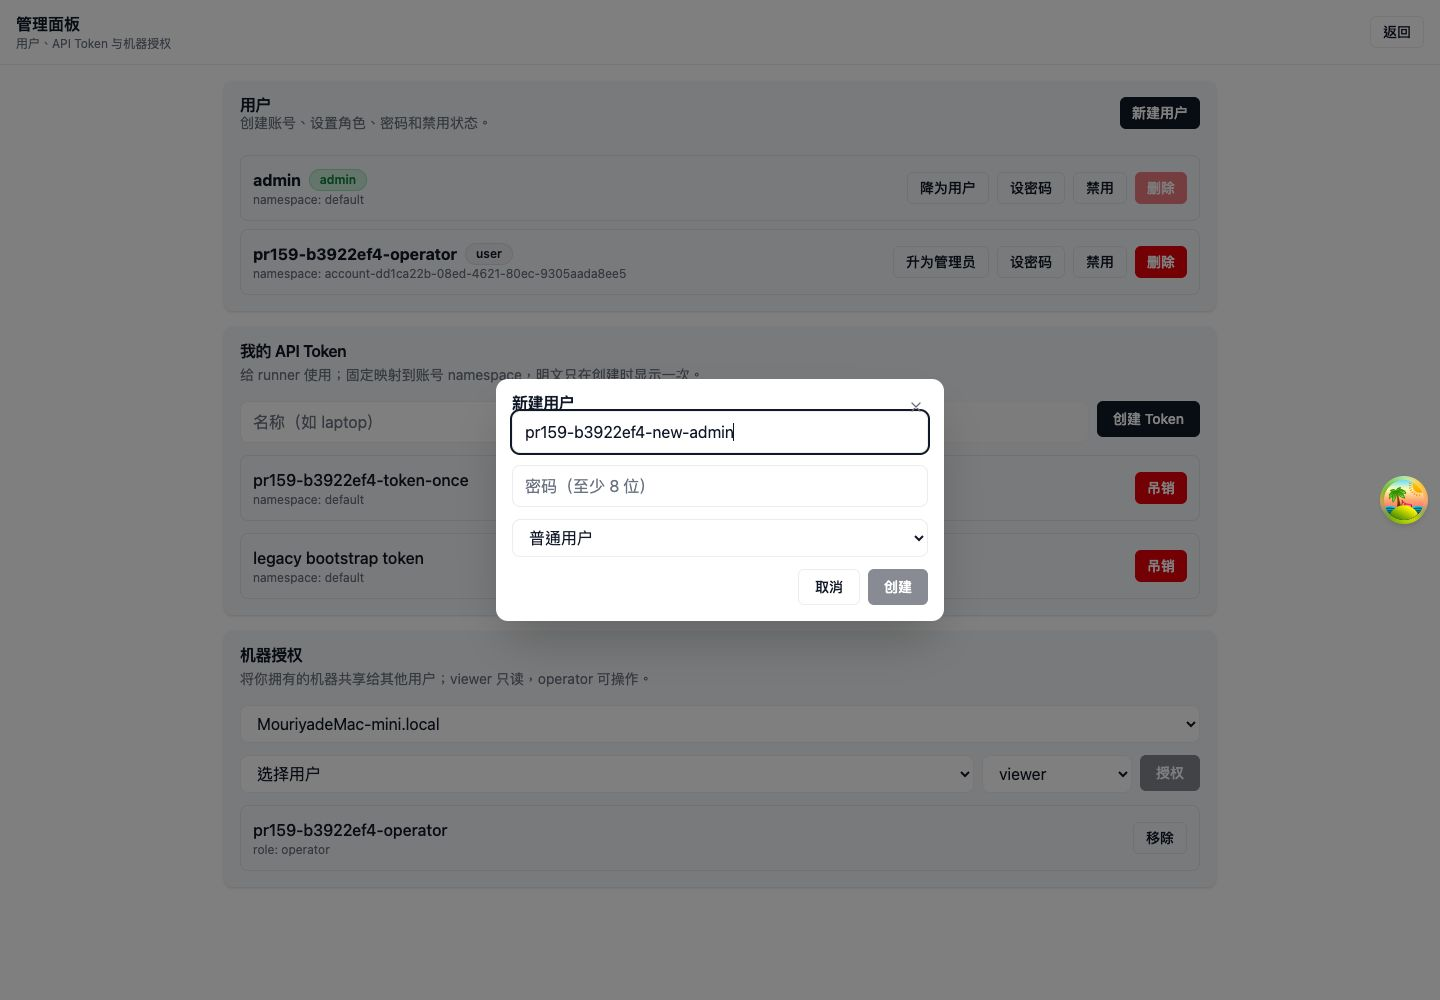
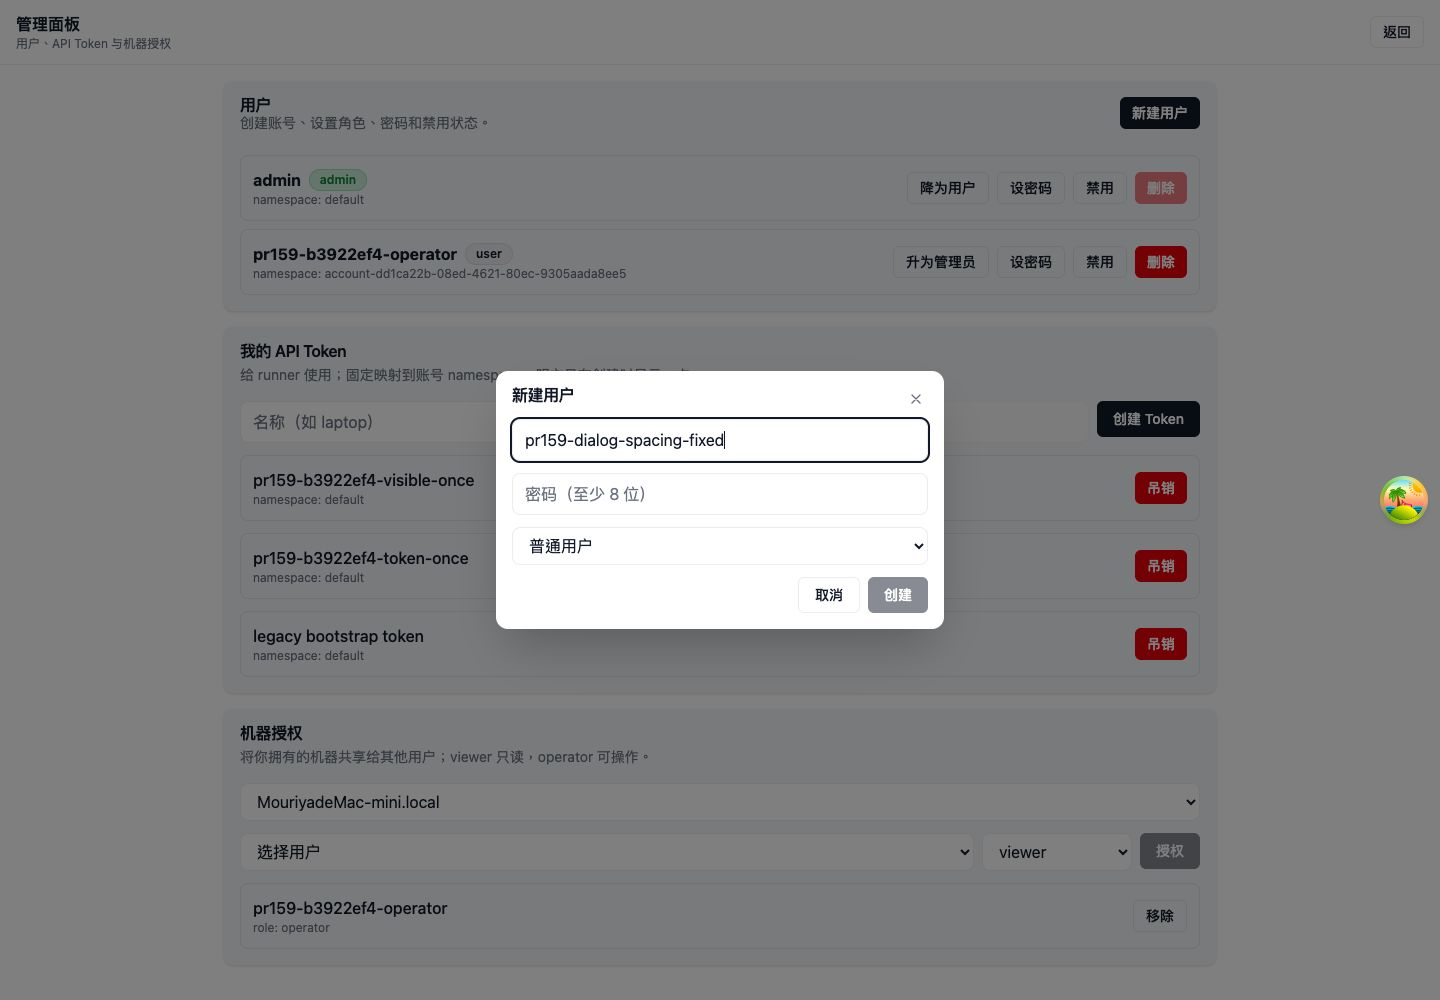
fix: separate account form from dialog header

diff --git a/web/src/fork-features/multi-user/AdminPage.tsx b/web/src/fork-features/multi-user/AdminPage.tsx
@@ -78,7 +78,7 @@ export default function AdminPage() {
             {user.role === 'admin' && <Card>
                 <CardHeader className="flex flex-row items-start justify-between gap-3"><div><CardTitle>用户</CardTitle><CardDescription>创建账号、设置角色、密码和禁用状态。</CardDescription></div><Button size="sm" onClick={() => setCreateOpen(true)}>新建用户</Button></CardHeader>
                 <CardContent className="space-y-2">{accounts.map(account => <div key={account.id} className="flex flex-wrap items-center justify-between gap-3 rounded-lg border border-[var(--app-border)] p-3"><div><div className="flex items-center gap-2"><b>{account.username}</b><Badge variant={account.role === 'admin' ? 'success' : 'default'}>{account.role}</Badge>{account.disabledAt && <Badge variant="destructive">disabled</Badge>}</div><div className="text-xs text-[var(--app-hint)]">namespace: {account.defaultNamespace}</div></div><div className="flex flex-wrap gap-2"><Button size="sm" variant="outline" onClick={() => updateAccount(account.id, { role: account.role === 'admin' ? 'user' : 'admin' })}>{account.role === 'admin' ? '降为用户' : '升为管理员'}</Button><Button size="sm" variant="outline" onClick={async () => { const next = window.prompt(`为 ${account.username} 设置新密码（至少 8 位）`); if (next && next.length >= 8) await updateAccount(account.id, { password: next }) }}>设密码</Button><Button size="sm" variant="outline" onClick={() => updateAccount(account.id, { disabled: !account.disabledAt })}>{account.disabledAt ? '启用' : '禁用'}</Button><Button size="sm" variant="destructive" disabled={account.id === user.id} onClick={async () => { if (window.confirm(`确定删除 ${account.username}？`)) { await request(`/api/accounts/${account.id}`, { method: 'DELETE' }); await refresh() } }}>删除</Button></div></div>)}</CardContent>
-                <Dialog open={createOpen} onOpenChange={setCreateOpen}><DialogContent className="max-w-md"><DialogHeader><DialogTitle>新建用户</DialogTitle></DialogHeader><form className="space-y-3" onSubmit={createAccount}><input className={inputClass} placeholder="用户名" value={username} onChange={e => setUsername(e.target.value)} /><input className={inputClass} type="password" placeholder="密码（至少 8 位）" value={password} onChange={e => setPassword(e.target.value)} /><select className={inputClass} value={role} onChange={e => setRole(e.target.value as 'admin' | 'user')}><option value="user">普通用户</option><option value="admin">管理员</option></select><div className="flex justify-end gap-2"><Button type="button" variant="outline" onClick={() => setCreateOpen(false)}>取消</Button><Button disabled={!username.trim() || password.length < 8}>创建</Button></div></form></DialogContent></Dialog>
+                <Dialog open={createOpen} onOpenChange={setCreateOpen}><DialogContent className="max-w-md"><DialogHeader><DialogTitle>新建用户</DialogTitle></DialogHeader><form className="mt-4 space-y-3" onSubmit={createAccount}><input className={inputClass} placeholder="用户名" value={username} onChange={e => setUsername(e.target.value)} /><input className={inputClass} type="password" placeholder="密码（至少 8 位）" value={password} onChange={e => setPassword(e.target.value)} /><select className={inputClass} value={role} onChange={e => setRole(e.target.value as 'admin' | 'user')}><option value="user">普通用户</option><option value="admin">管理员</option></select><div className="flex justify-end gap-2"><Button type="button" variant="outline" onClick={() => setCreateOpen(false)}>取消</Button><Button disabled={!username.trim() || password.length < 8}>创建</Button></div></form></DialogContent></Dialog>
             </Card>}
             <Card><CardHeader><CardTitle>我的 API Token</CardTitle><CardDescription>给 runner 使用；固定映射到账号 namespace，明文只在创建时显示一次。</CardDescription></CardHeader><CardContent className="space-y-3"><form className="grid gap-2 md:grid-cols-[1fr_1fr_auto]" onSubmit={createToken}><input className={inputClass} placeholder="名称（如 laptop）" value={tokenName} onChange={e => setTokenName(e.target.value)} /><input className={inputClass} value={user.defaultNamespace} disabled aria-label="Token namespace" /><Button>创建 Token</Button></form>{createdToken && <div className="rounded-lg border border-green-500/40 bg-green-500/10 p-3 text-sm"><div className="font-medium">请立即复制保存：</div><code className="mt-2 block break-all rounded bg-[var(--app-bg)] p-2">{createdToken}</code></div>}{tokens.map(item => <div key={item.id} className="flex flex-wrap items-center justify-between gap-3 rounded-lg border border-[var(--app-border)] p-3"><div><div className="font-medium">{item.name || `token-${item.id}`}</div><div className="text-xs text-[var(--app-hint)]">namespace: {user.defaultNamespace}</div></div><Button size="sm" variant="destructive" onClick={async () => { if (window.confirm('确认吊销这个 Token？')) { await request(`/api/tokens/${item.id}`, { method: 'DELETE' }); await refresh() } }}>吊销</Button></div>)}</CardContent></Card>
             <MachineGrants machines={machines} accounts={accounts} request={request} />